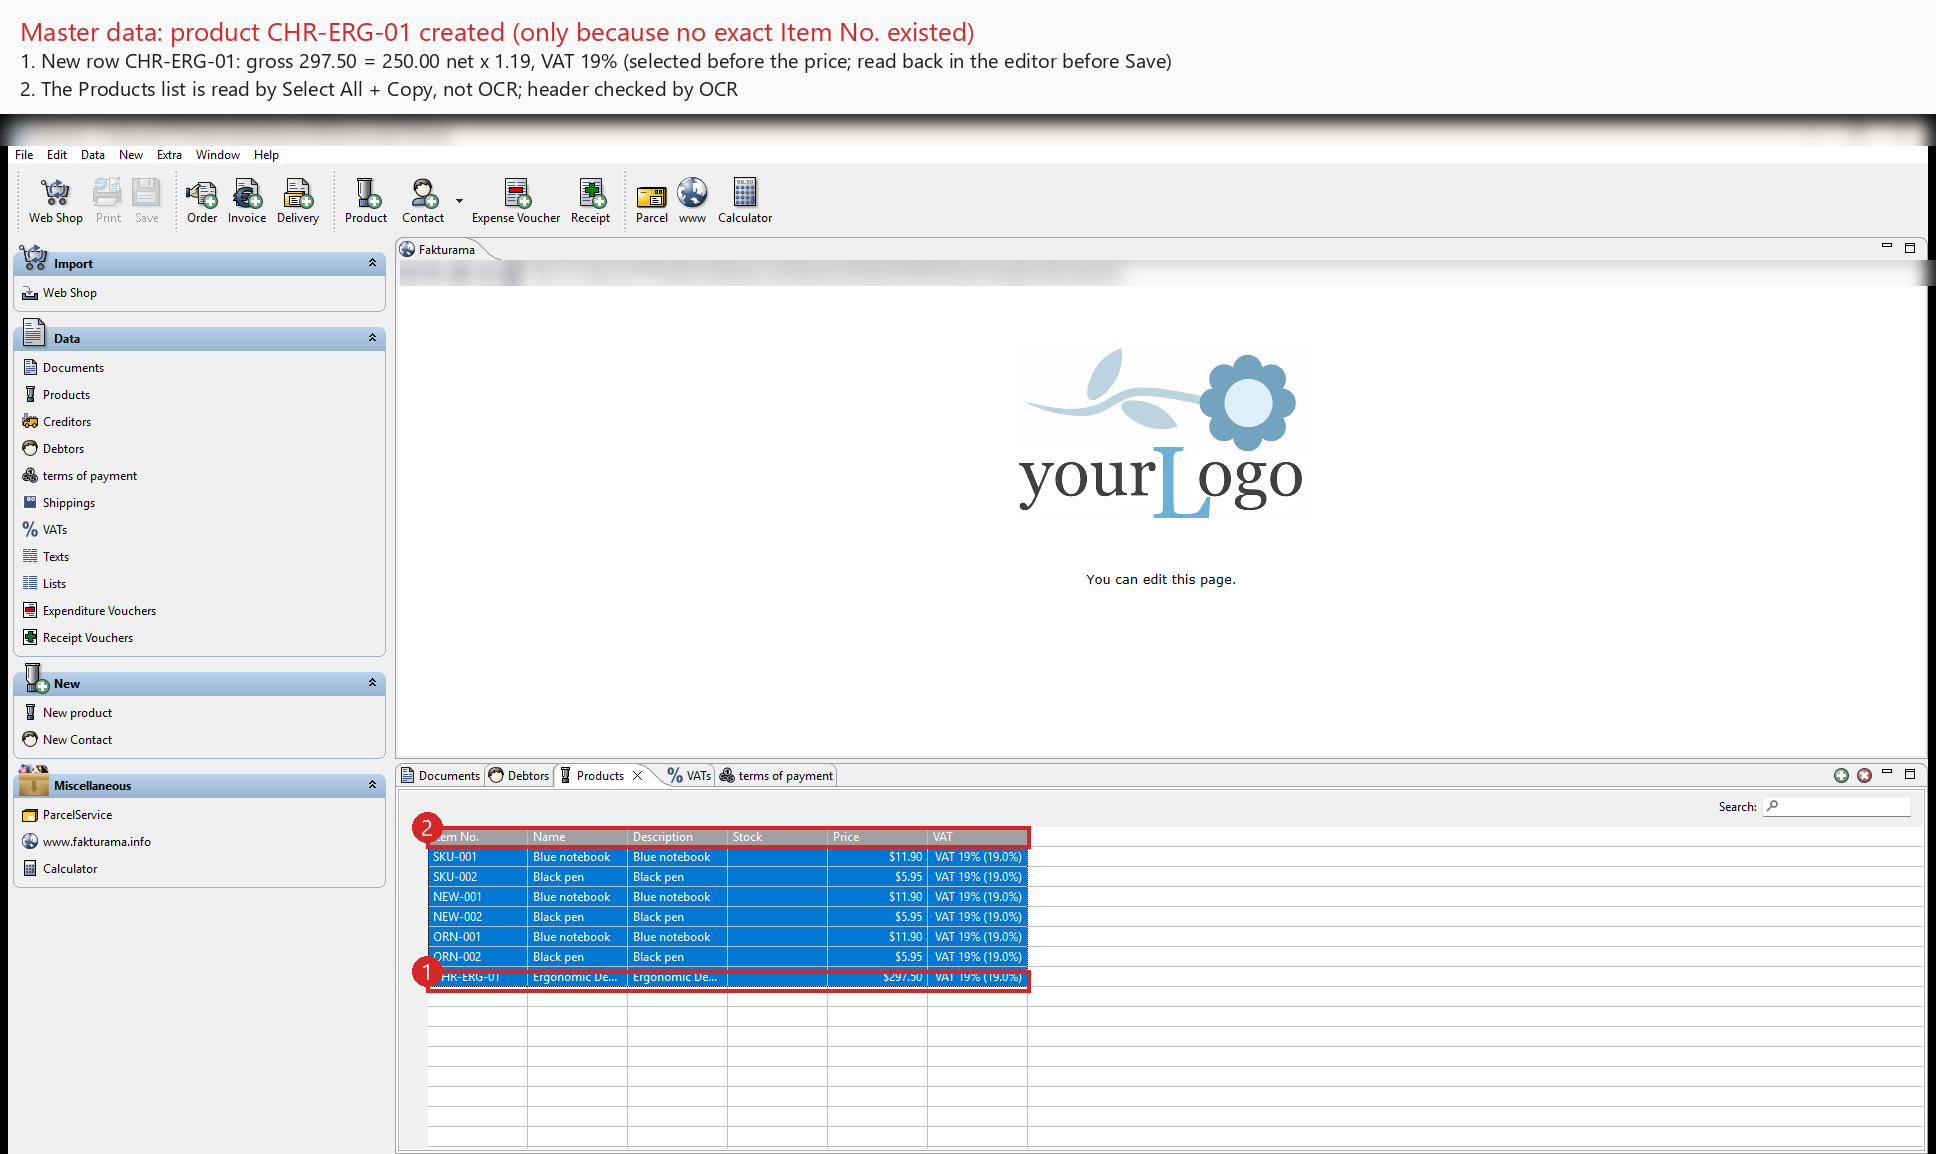
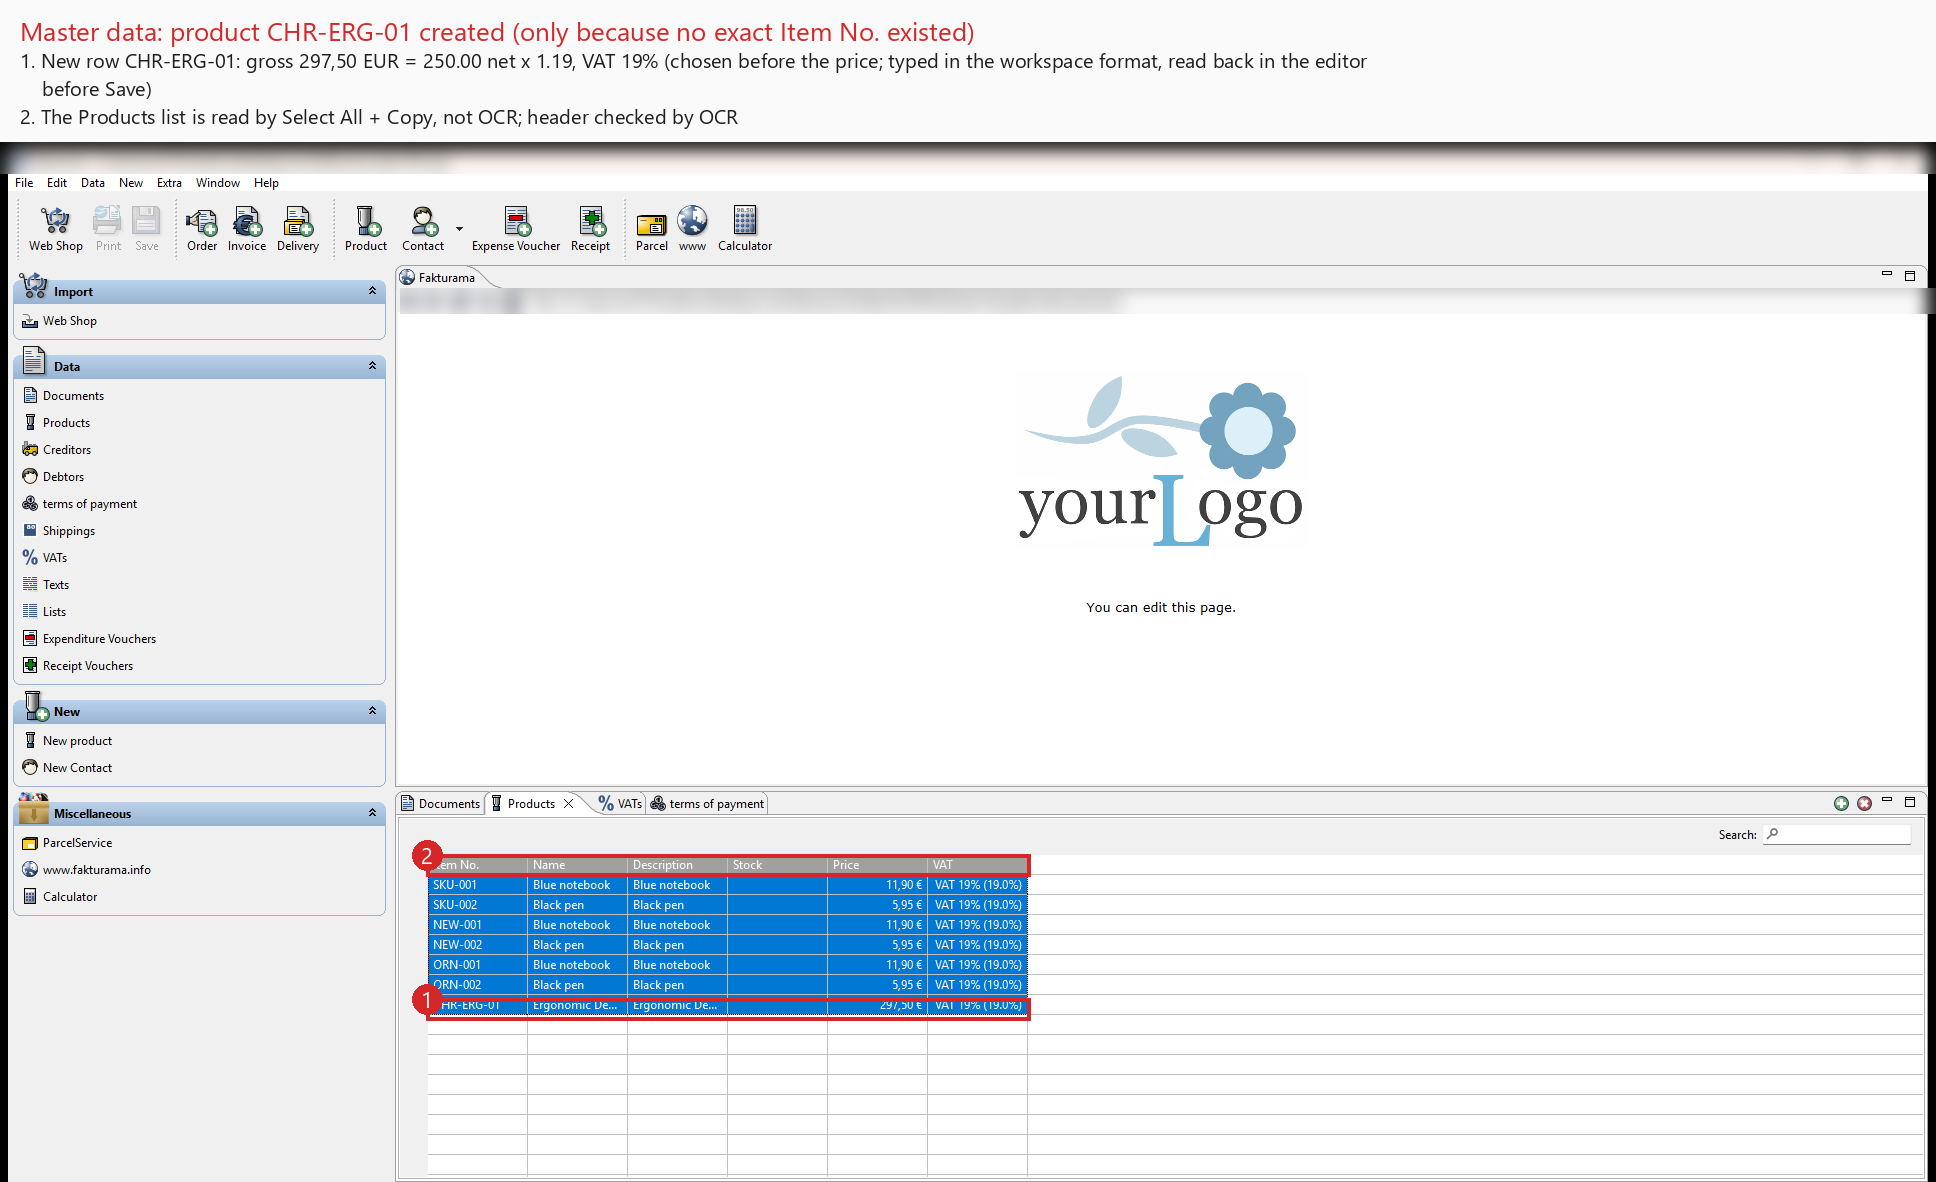
Screenshots and README from the euro run
The full automate run in a workspace set to Germany (EUR) finished first time:
PO000009 and its paid Invoice INV000006, 678,30 EUR, verified in Documents
and again with check-invoice. The annotated screenshots are regenerated from
that run, and the README describes it.

Changed region(s): [[0.0, 0.0312, 1.0, 0.9671], [0.5269, 0.312, 0.6818, 0.4679], [0.5579, 0.4991, 0.6508, 0.5303]]

diff --git a/tools/annotate_screenshots.py b/tools/annotate_screenshots.py
@@ -39,12 +39,12 @@ class Shot:
 MASTERS = [
     Shot("03-product-chr-erg-01-after.png", "1-product-created.png",
          "Master data: product CHR-ERG-01 created (only because no exact Item No. existed)",
-         [((426, 856, 1030, 878), "New row CHR-ERG-01: gross 297.50 = 250.00 net x 1.19, VAT 19% "
-                                  "(selected before the price; read back in the editor before Save)"),
+         [((426, 856, 1030, 878), "New row CHR-ERG-01: gross 297,50 EUR = 250.00 net x 1.19, VAT 19% (chosen before the price; "
+                                  "typed in the workspace format, read back in the editor before Save)"),
           ((426, 712, 1030, 734), "The Products list is read by Select All + Copy, not OCR; header checked by OCR")],
          crop=(0, 0, 1936, 1040), blur=(TITLE_BAR, START_URL)),
     Shot("05-debtor-northstar-office-gmbh-after.png", "2-debtor-created.png",
-         "Master data: Debtor Northstar Office GmbH / Marta Klein created with billing + delivery address",
+         "Master data: Debtor Northstar Office GmbH / Marta Klein (CUST000009) created with billing + delivery address",
          [((426, 796, 1030, 818), "New contact (Customer ID proposed by Fakturama, kept). The list shows the "
                                   "DELIVERY ZIP 10553; the billing address is 10117"),
           ((426, 712, 1030, 734), "Identity check: exact Company, First Name, Name, ZIP, City")],
@@ -52,13 +52,13 @@ MASTERS = [
 ]
 ORDER = [
     Shot("07-invoice-web-2026-0714-a17-after.png", "3-order-and-invoice.png",
-         "Saved Order PO000007 and its linked, paid Invoice INV000004",
+         "Saved Order PO000009 and its linked, paid Invoice INV000006 (workspace currency: EUR, locale Germany)",
          [((396, 160, 1460, 250), "Header: proposed No. kept, Date Jul 14 2026 (from the image), Net, "
                                   "Cust.Ref. WEB-2026-0714-A17"),
-          ((396, 340, 1380, 410), "Lines: 2 x 250.00 -10% = 450.00 and 3 x 40.00 = 120.00, read back twice"),
-          ((1470, 480, 1920, 610), "Totals 570.00 / 108.30 / 678.30 equal the image; discount 0%, free shipping"),
+          ((396, 340, 1380, 410), "Lines: 2 x 250,00 EUR -10% = 450,00 EUR and 3 x 40,00 EUR = 120,00 EUR, read back twice"),
+          ((1470, 480, 1920, 610), "Totals 570,00 / 108,30 / 678,30 EUR equal the image; discount 0%, free shipping"),
           ((1456, 250, 1710, 320), "Follow-up Invoice (keeps the Order link), not the toolbar's Invoice"),
-          ((576, 728, 1920, 756), "Documents > Invoices: INV000004, paid, 678.30; the Order stays open")],
+          ((576, 728, 1920, 756), "Documents > Invoices: INV000006, paid, 678,30 EUR; the Order stays open")],
          crop=(0, 0, 1936, 1040)),
 ]
 

diff --git a/README.md b/README.md
@@ -7,7 +7,7 @@ order image ──extract──▶ OrderSpec JSON (validated) ──run──▶
             └─────────────────────────── automate = extract, then run ────────────────────────────┘
 ```
 
-**Status:** the whole brief is implemented and has run end to end on the sample. The payment term, products and Debtor were created because they were missing. Order PO000007 was saved (lines 450.00 / 120.00, totals 570.00 / 108.30 / 678.30), and its Invoice INV000004 was saved as paid on 2026-07-18 with Value 678.30. Everything was verified in Data > Documents. 753 offline tests. Differences from the brief and gaps are under [Deviations and limits](#deviations-and-limits).
+**Status:** the whole brief is implemented and has run end to end on the sample with one `automate` command, in a workspace set to EUR. The payment term, products and Debtor were created because they were missing. Order PO000009 was saved (lines 450,00 / 120,00 €, totals 570,00 / 108,30 / 678,30 €), and its Invoice INV000006 was saved as paid on 2026-07-18 with Value 678,30 €. Everything was verified in Data > Documents, then checked again with `check-invoice`. 753 offline tests. Differences from the brief and gaps are under [Deviations and limits](#deviations-and-limits).
 
 ## Setup
 
@@ -81,20 +81,20 @@ More detail: [docs/DESIGN.md](docs/DESIGN.md), and the phase plans with everythi
 
 Annotated screenshots from the runner's own evidence, with personal paths blurred (`tools/annotate_screenshots.py`):
 
-1. [Product created](docs/screenshots/1-product-created.png): CHR-ERG-01, gross 297.50 = 250.00 × 1.19, VAT 19%.
+1. [Product created](docs/screenshots/1-product-created.png): CHR-ERG-01, gross 297,50 € = 250.00 × 1.19, VAT 19%.
 2. [Debtor created](docs/screenshots/2-debtor-created.png): Northstar Office GmbH / Marta Klein.
-3. [Order and paid Invoice](docs/screenshots/3-order-and-invoice.png): PO000007 with both lines and totals; INV000004 paid, 678.30.
+3. [Order and paid Invoice](docs/screenshots/3-order-and-invoice.png): PO000009 with both lines and totals; INV000006 paid, 678,30 €.
 
 ![Order and its paid Invoice](docs/screenshots/3-order-and-invoice.png)
 
-These come from a workspace set to US dollars, before the currency check existed, so the EUR amounts appear with `$`. On the cleaned workspace the result took three runs. The first two stopped because a desktop notification covered part of a Data view. The third reused the records the second had created. The reader now waits up to 10 s for such an overlay and keeps a screenshot of it.
+All three come from one clean `automate` run in a euro workspace (run 20261106T154423), which finished on the first attempt. Earlier history: the first full run used a US-dollar workspace, so its EUR amounts showed `$`, which led to the currency check. Its clean test needed three runs, because a desktop notification twice covered part of a Data view; the reader now waits up to 10 s for such an overlay and keeps a screenshot of it. The first euro run stopped before saving a product because the price was typed with a dot, which led to typing money in the workspace's format.
 
 ## Deviations and limits
 
 - **Order of operations.** The brief creates missing master data from inside the open New Order. `run` settles master data first, then builds the Order and selects everything through the Order's own selectors, which remain the final existence check. Every editor then sees fresh lists (the Debtor editor reads the payment list only once), and no Order sits half-built while other editors save.
 - **E-mail.** Fakturama rejects the `.test` domain; see `--without-email`.
-- <a id="currency"></a>**Currency is set by the user, not by the tool.** Fakturama 2.2.0 has one currency per workspace; a document cannot be "in EUR" on its own. The tool never changes the setting. It reads the currency format in preflight, parses every amount in it, and types money fields in it (`297,50` in Germany; NatTable cells and the VAT value always take a dot). `run` works out the workspace currency from the locale and its symbol and stops for review if it differs from the order's, unless `--accept-currency`. In a German workspace every field was checked live in unsaved editors; a full euro run is not recorded yet.
-- **Tested environment.** English Fakturama 2.2.0, 100% scaling, maximized window, one sample image; full runs with the US currency format. Preflight refuses other UI languages and currency formats it cannot pin down; a date display other than `MMM d, yyyy` stops the run.
+- <a id="currency"></a>**Currency is set by the user, not by the tool.** Fakturama 2.2.0 has one currency per workspace; a document cannot be "in EUR" on its own. The tool never changes the setting. It reads the currency format in preflight, parses every amount in it, and types money fields in it (`297,50` in Germany; NatTable cells and the VAT value always take a dot). `run` works out the workspace currency from the locale and its symbol and stops for review if it differs from the order's, unless `--accept-currency`. Full runs passed in both a US-dollar and a euro (Germany) workspace.
+- **Tested environment.** English Fakturama 2.2.0, 100% scaling, maximized window, one sample image; full runs with the US and German currency formats. Preflight refuses other UI languages and currency formats it cannot pin down; a date display other than `MMM d, yyyy` stops the run.
 - **Not exercised live:** saving an UNPAID Invoice (that branch ran unsaved), Credit Card and SEPA terms, VAT rates other than 19% (0% needs an exemption code and is refused), and more lines than the item grid shows without scrolling (the run stops).
 - **Keyboard layout.** Ctrl shortcuts are sent as virtual keys and were verified with an Arabic layout active; full runs used the English layout.
 
@@ -110,7 +110,7 @@ In this order:
    - **Safe redelivery.** The idempotency key is the image hash plus Cust.Ref. The existing duplicate guard, resume and journal already make a redelivered message harmless: it resumes or reports "already done", and a Save of unknown outcome is held for a person instead of retried.
    - **Status per message.** Each message's outcome and run folder are written back, for a dashboard or alerting.
 2. **The brief's Order-first sequence** as an option of `run`: open the Order, try its selectors, create what is missing from there, and return to the same Order. The building blocks exist; what is missing is keeping the Order bound while other editors save, plus simulator tests for that path.
-3. **More real inputs.** Varied images (other layouts, photos, unpaid, Credit Card and SEPA, two VAT rates, more lines) turned into golden tests, then run live, including a saved unpaid Invoice and a full run in a euro workspace.
+3. **More real inputs.** Varied images (other layouts, photos, unpaid, Credit Card and SEPA, two VAT rates, more lines) turned into golden tests, then run live, including a saved unpaid Invoice.
 4. **A sturdier desktop session.** Detect notifications and focus thieves in preflight, scroll the item grid for long orders, and run in a dedicated Windows session or VM where nothing can cover Fakturama.
 
 ## Notes

diff --git a/docs/PHASE5_PLAN.md b/docs/PHASE5_PLAN.md
@@ -16,6 +16,7 @@ The brief's deliverables and where each one is:
 - The clean end-to-end test took three runs (out/runs/…T135134, …T135305, …T135747): the first two were stopped by the table reader refusing a grid whose bottom rows were covered. The evidence screenshot shows a desktop notification ("friend is playing …") over the lower right of the screen. The reader now waits up to 10 s for such an overlay and saves a full-screen picture of it to `out/overlays/`.
 - Currency check added to `run`: Fakturama has one currency per workspace, which the user sets (the tool never changes it). The order's currency must match it, else review; `--accept-currency` enters the amounts under the workspace currency. The sample's earlier live runs (US-dollar workspace, EUR order) predate the check.
 - First run with the workspace on Germany stopped before saving product CHR-ERG-01: '297.50' typed into the gross price became 29.750,00 €. Checked live in unsaved editors: money fields take the locale's decimal mark ('297,50'; paid Value '12.34' -> 1.234,00 €), NatTable line cells and the VAT Value always take a dot ('1,5' Qty. -> 15, '7,5' -> 75%). Money fields now use `MoneyFormat.typed`.
+- Euro runs: out/runs/…T150128 (PO000008, INV000005) and …T154423 (PO000009, INV000006) both finished first time with the workspace on Germany; `check-invoice` confirms INV000006. The screenshots in the repo are now from …T154423.
 - `automate IMAGE`: extract, then run, in one command; Fakturama is touched only if extraction passed (shares the `run` flags).
 - Screenshots in the repo blur the window title and the start page URL (both show the workspace path) and crop the notification corner.
 
